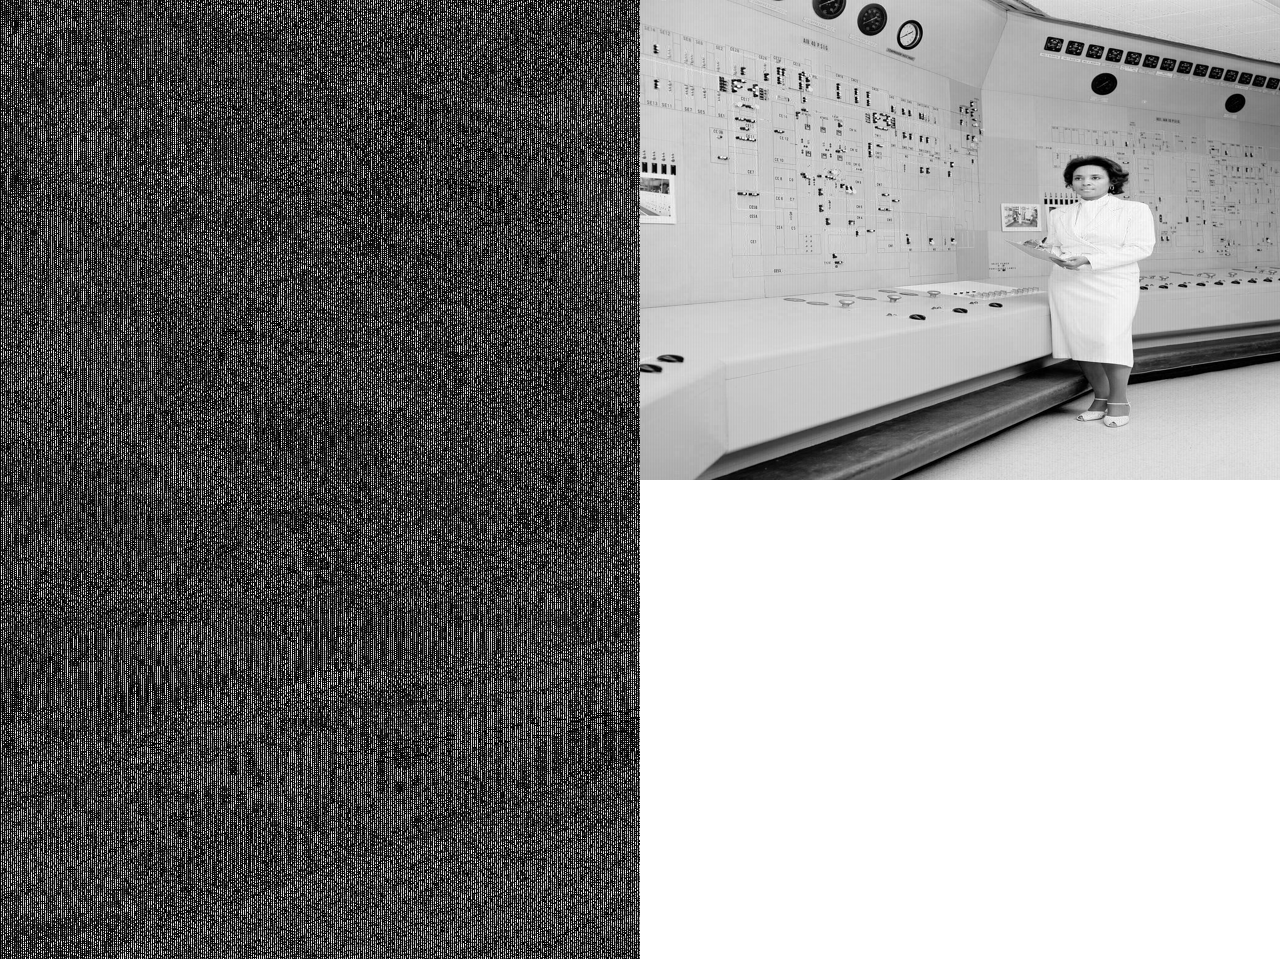
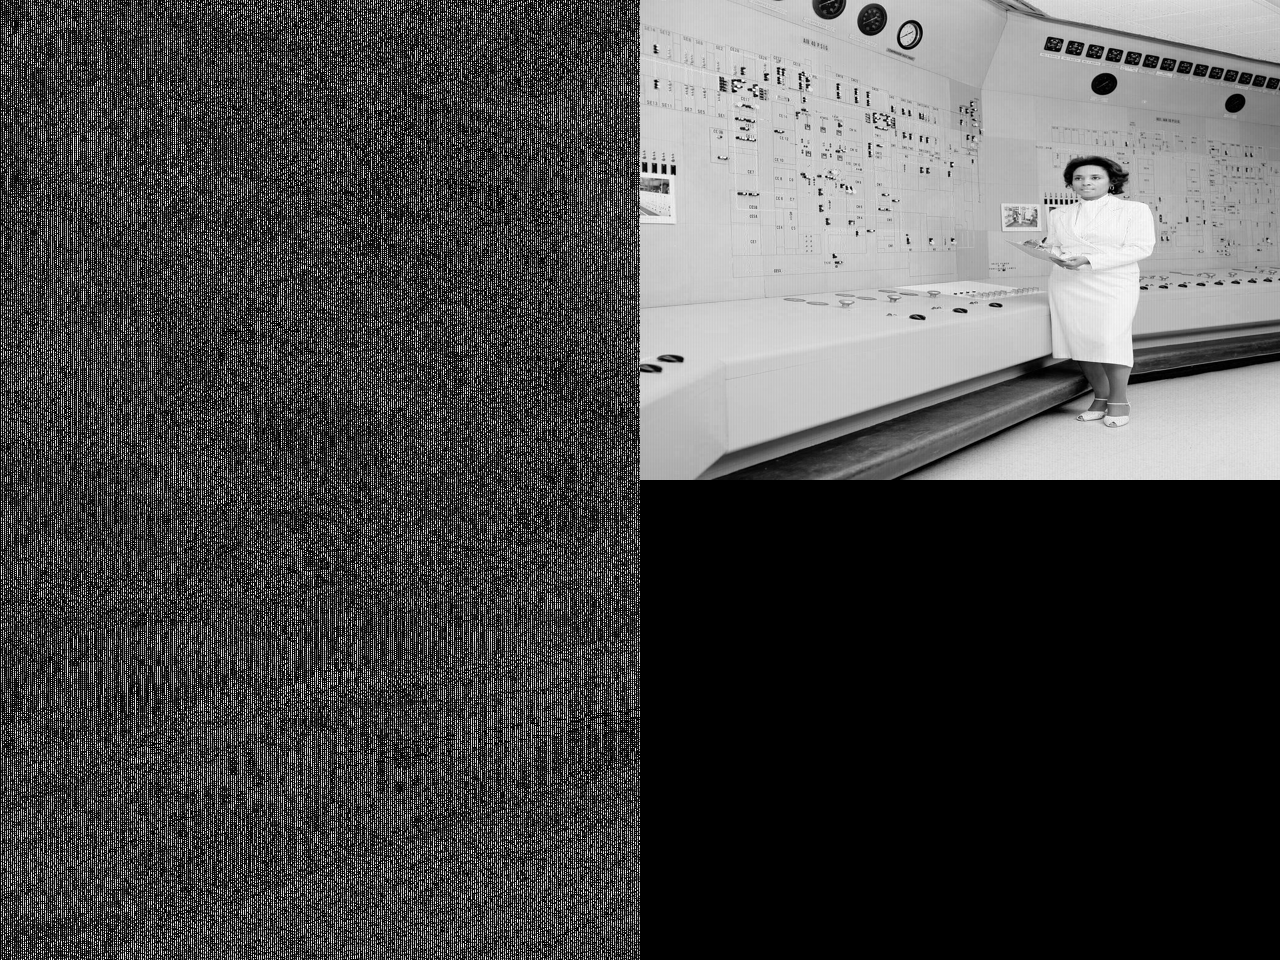
README and internal documentation

Changed region(s): [[0.5, 0.5, 1.0, 1.0]]

diff --git a/proyecto 1/view_img.py b/proyecto 1/view_img.py
@@ -1,44 +1,43 @@
-import numpy as np
 from PIL import Image, ImageFilter
 import os
 
+# Inserta cada byte en una lista y se transforma a bytes, devuelve el ancho y el largo de la imagen
 def str2byte(textfile):
 	width = 0
 	height = 0
-	res = b''
-	tempstring = ''
-	with open(textfile, 'rt') as f:
-		byte = f.read()
-		for element in byte:
-			if element == ' ':
-				res += (int(tempstring)).to_bytes(1, 'big')
-				tempstring = ""
-				width += 1
-			else:
-				tempstring += element
-			if width == 640:
-				height += 1
-				width = 0
-		return [res, 640, height]
 
-os.system("rm -f decrypt_img.o decrypt_img new_img.txt decrypt_image.png")
+	with open(textfile, 'r') as f:
+	    byte = f.read()
+	    res = [int(n) for n in byte.split()]
+	
+	height = int(len(res)/640) 
+	res = bytes(res)
+	return [res, 640, height]
+
+# Comandos de consola para llamar a la funcion de desencriptar imagenes en x86
+os.system("rm -f decrypt_img.o decrypt_img dec_img.txt decrypt_image.png")
 os.system("nasm -f elf64 -o decrypt_img.o decrypt_img.asm")
 os.system("ld -o decrypt_img decrypt_img.o")
 os.system("./decrypt_img")
 
+# Se guardan los valores obtenidos en bytes
 encImg = str2byte("enc_img.txt")
 decImg = str2byte("dec_img.txt")
 
+# Se crean las imagenes basadas en los bytes obtenidos
 imge = Image.frombytes('L', (encImg[1], encImg[2]), encImg[0])
 imgd = Image.frombytes('L', (decImg[1], decImg[2]), decImg[0])
 
-bg = Image.new("RGBA", (1280, 960))
-bg2 = Image.new("RGBA", (640, 480))
+# Crea un fondo
+bg = Image.new("RGB", (encImg[1]+decImg[1], encImg[2]))
+bg2 = Image.new("RGB", (decImg[1], decImg[2]))
 
 
-
+# Inserta las figura en el fondo
 bg.paste(imge, (0, 0))
-bg.paste(imgd, (640, 0))
-bg.paste(bg2, (640, 480))
+bg.paste(imgd, (encImg[1], 0))
+bg.paste(bg2, (decImg[1], decImg[2]))
 
+
+# Guarda la imagen con el nombre decrypt_image
 bg.save("decrypt_image.png", "PNG")

diff --git a/README.md b/README.md
@@ -1,1 +1,32 @@
 # jesquivel_computer_architecture_1_2023
+
+Proyecto Individual
+
+Este proyecto se realizó en Ubuntu 18.04 LTS
+
+Requisitos:
+
+- Python 3.6.9
+- Pillow 6.2.2
+- NASM ensamblador de x86
+
+Ejecución del programa:
+
+- Clonar el repositorio de git
+- Asegurarse de tener instalados todos los requisitos
+- Abrir una consola en el directorio donde se ubican los archivos
+- El archivo de llave se debe llamar llave.txt y el de la imagen encriptada enc_img.txt
+- El archivo de imagen encriptada debe terminar con un /n y solo debe tener bytes de 0 a 255
+- El archivo de llave debe tener el siguiente formato y debe incluir los valores de d y n:
+
+    e = 2371
+    d = 1531
+    n = 2747
+    p = 67
+    q = 41
+
+
+- Utilizar en consola el comando "python3 view_img.py"
+- Esperar a que se termine la ejecución (esto puede tardar unos segundos)
+- Al finalizar puede encontrar, en la misma dirección, un archivo PNG con las imágenes encriptada a la derecha y desencriptada a la izquierda
+
